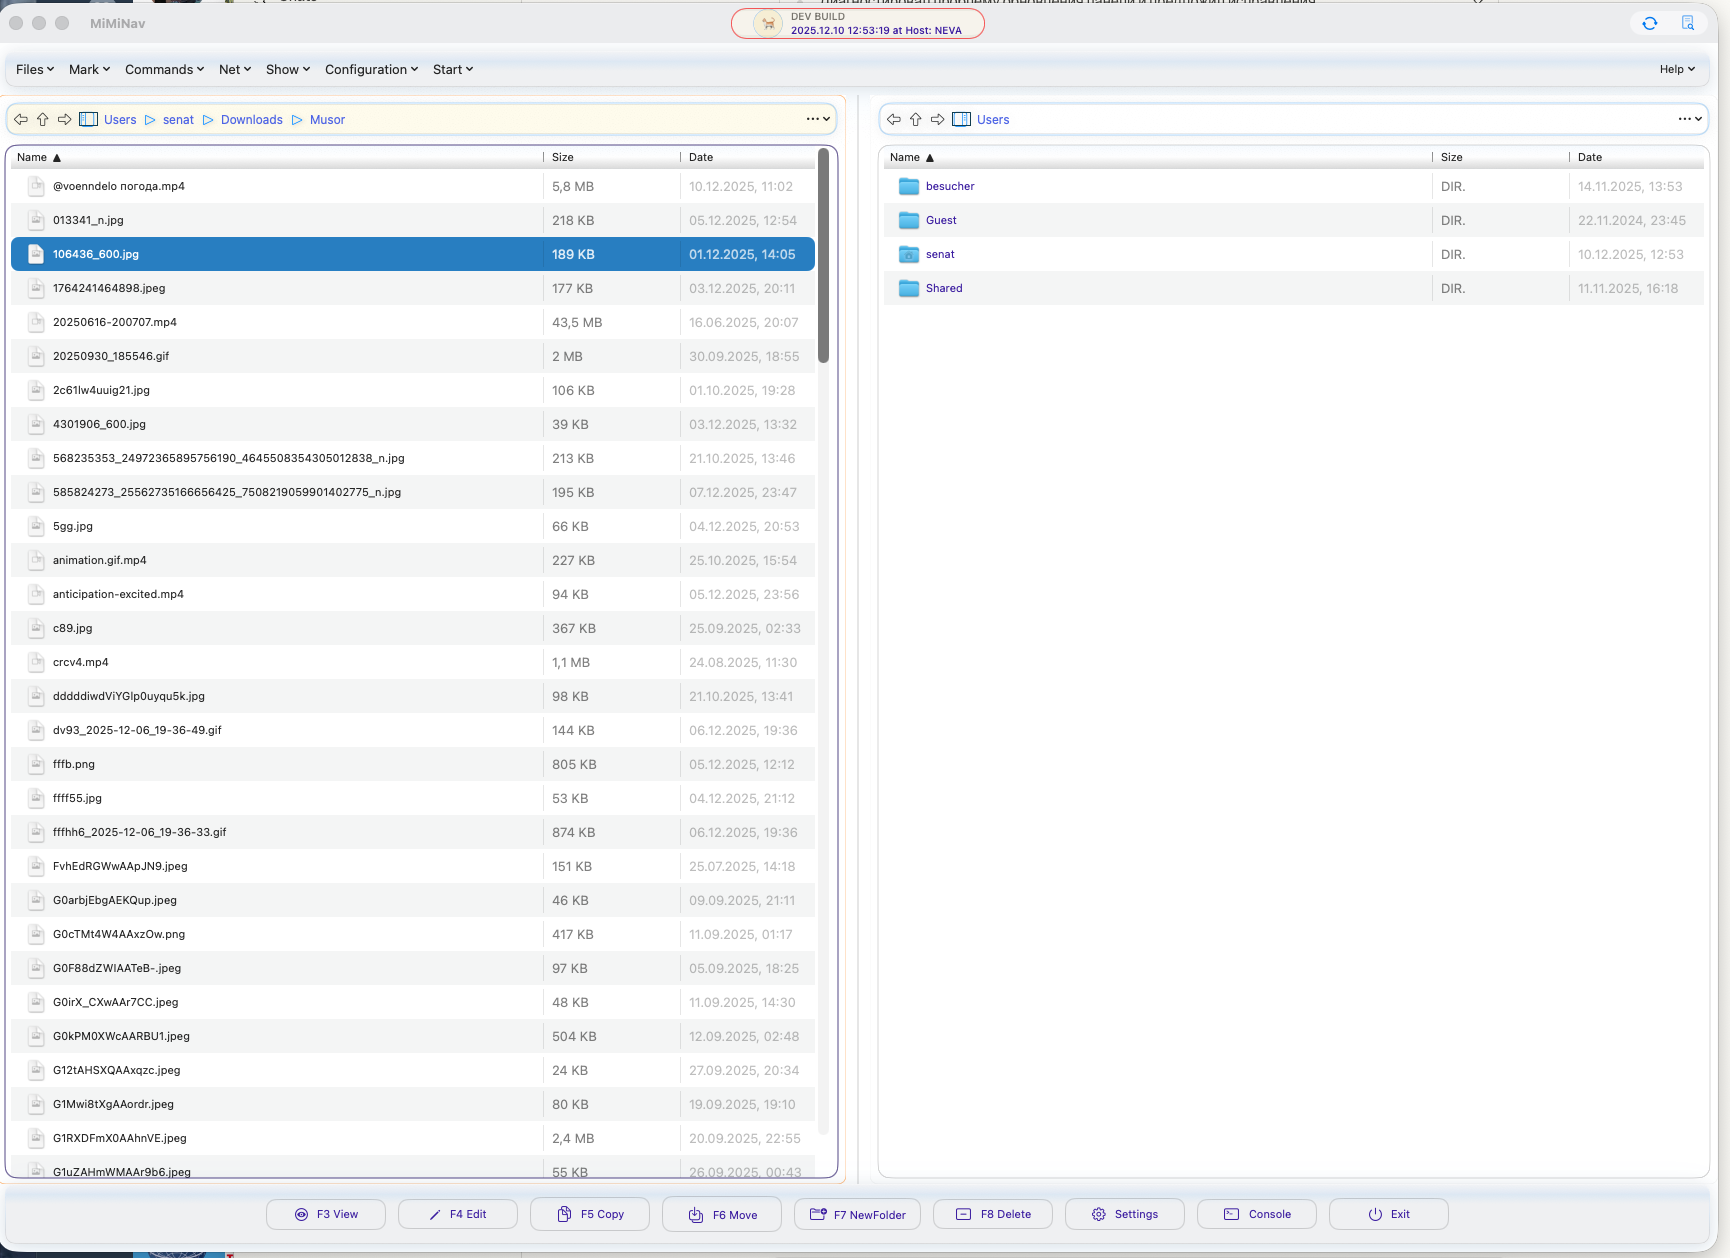
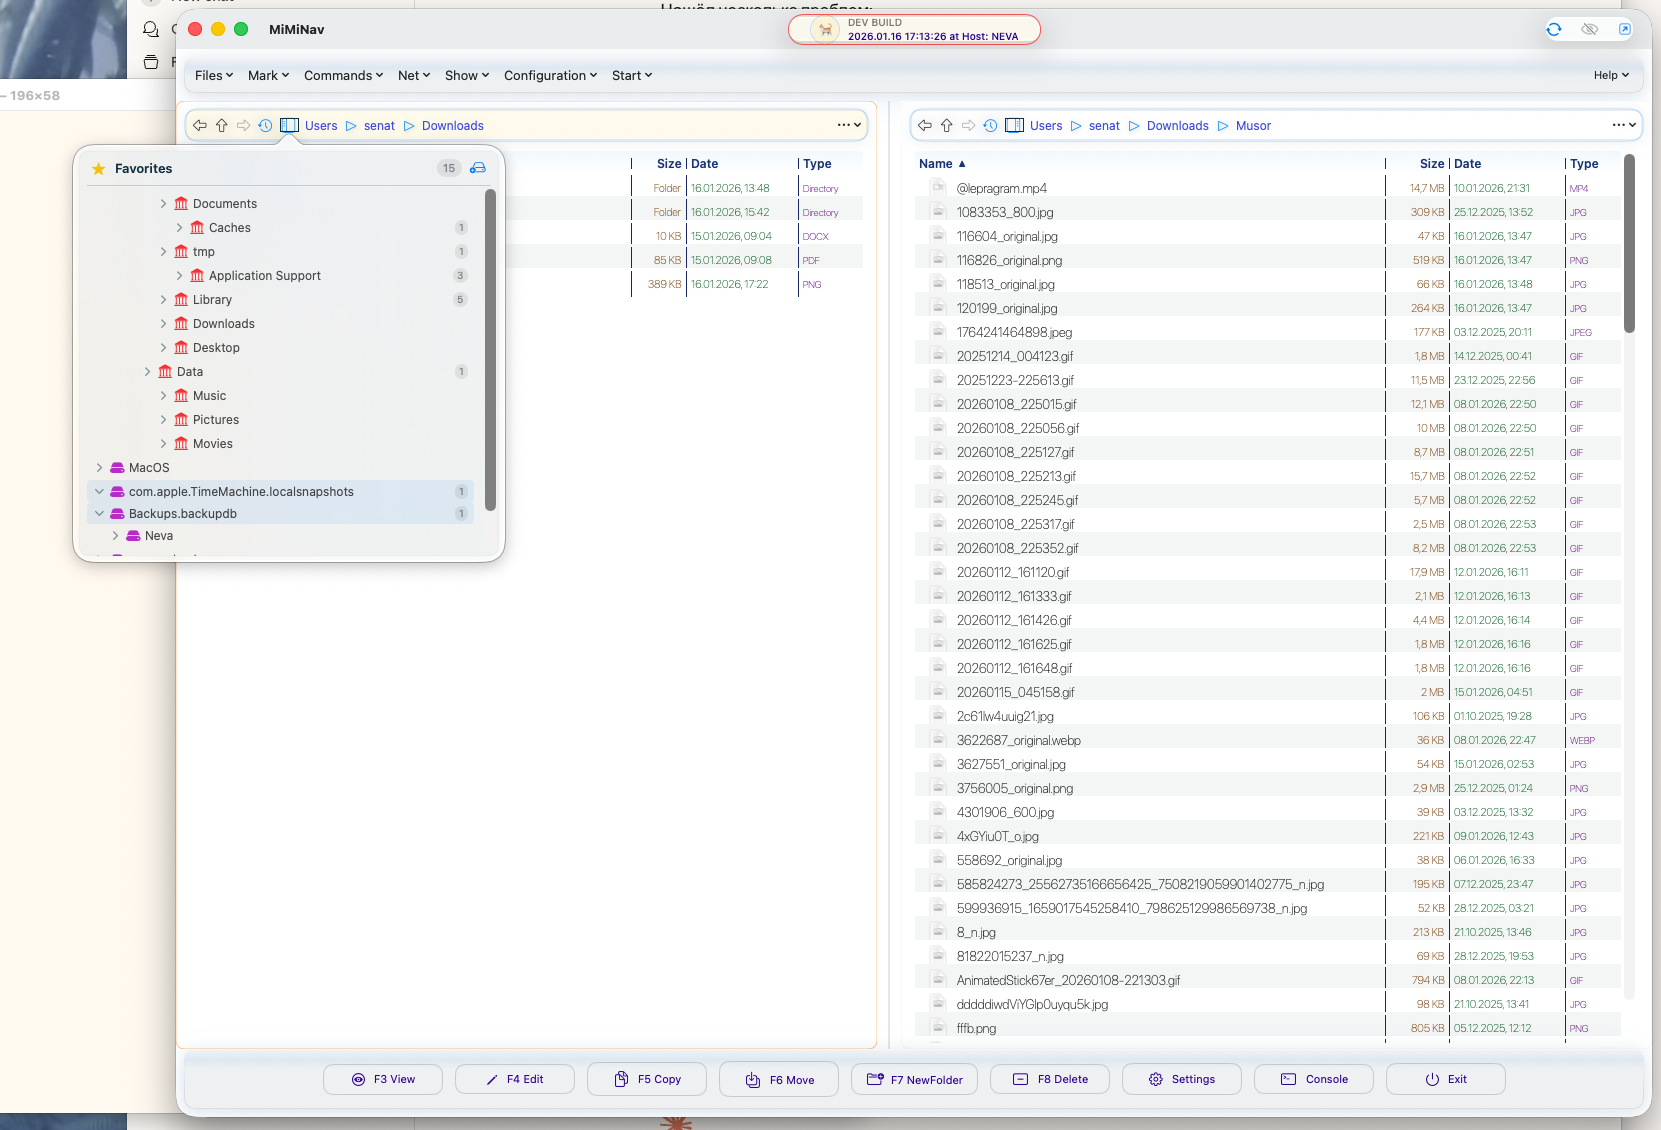
Adjusted column separator lines in file lists ad docus

diff --git a/GUI/Sources/FilePanel/FileTableView.swift b/GUI/Sources/FilePanel/FileTableView.swift
@@ -19,7 +19,6 @@ struct FileTableView: View {
     @State private var sortAscending: Bool = true
     @State private var cachedSortedFiles: [CustomFile] = []
     @State private var scrollProxy: ScrollViewProxy? = nil
-    @State private var isScrollingProgrammatically = false
     
     // MARK: - Resizable column widths (persisted per panel)
     @State private var sizeColumnWidth: CGFloat = ColumnDefaults.size
@@ -34,9 +33,9 @@ struct FileTableView: View {
     }
     
     private enum ColumnConstraints {
-        static let sizeMin: CGFloat = 40
+        static let sizeMin: CGFloat = 30
         static let sizeMax: CGFloat = 120
-        static let dateMin: CGFloat = 50
+        static let dateMin: CGFloat = 30
         static let dateMax: CGFloat = 180
         static let typeMin: CGFloat = 30
         static let typeMax: CGFloat = 100
@@ -75,7 +74,6 @@ struct FileTableView: View {
         .frame(maxWidth: .infinity, maxHeight: .infinity)
         .padding(.horizontal, 6)
         .clipShape(RoundedRectangle(cornerRadius: 12, style: .continuous))
-        .overlay(focusBorder)
         .overlay(lightBorder)
         .contentShape(Rectangle())
         .animation(nil, value: isFocused)
@@ -160,12 +158,8 @@ struct FileTableView: View {
     
     private func scrollToSelection(_ id: CustomFile.ID?, anchor: UnitPoint = .center) {
         guard let id = id, let proxy = scrollProxy else { return }
-        isScrollingProgrammatically = true
         withAnimation(nil) {
             proxy.scrollTo(id, anchor: anchor)
-        }
-        DispatchQueue.main.asyncAfter(deadline: .now() + 0.1) {
-            isScrollingProgrammatically = false
         }
     }
     
@@ -232,6 +226,13 @@ struct FileTableView: View {
             getDateSortableHeader()
                 .frame(width: dateColumnWidth, alignment: .leading)
                 .padding(.horizontal, 4)
+                .contentShape(Rectangle())
+                .onTapGesture {
+                    appState.focusedPanel = panelSide
+                    if sortKey == .date { sortAscending.toggle() }
+                    else { sortKey = .date; sortAscending = true }
+                    appState.updateSorting(key: .date, ascending: sortAscending)
+                }
             
             // Divider before Type
             resizableDivider(
@@ -244,9 +245,16 @@ struct FileTableView: View {
             getTypeColSortableHeader()
                 .frame(width: typeColumnWidth, alignment: .leading)
                 .padding(.horizontal, 4)
+                .contentShape(Rectangle())
+                .onTapGesture {
+                    appState.focusedPanel = panelSide
+                    if sortKey == .type { sortAscending.toggle() }
+                    else { sortKey = .type; sortAscending = true }
+                    appState.updateSorting(key: .type, ascending: sortAscending)
+                }
         }
         .padding(.vertical, 5)
-        .padding(.horizontal, 6)
+        .padding(.horizontal, 4)
         .background(
             LinearGradient(
                 colors: [
@@ -267,9 +275,11 @@ struct FileTableView: View {
 
     // MARK: - Resizable column divider
     private func resizableDivider(width: Binding<CGFloat>, min: CGFloat, max: CGFloat) -> some View {
-        Rectangle()
-            .fill(Color(nsColor: .separatorColor))
-            .frame(width: 1)
+        let scale = NSScreen.main?.backingScaleFactor ?? 2.0
+        let dividerWidth = Swift.max(1.0 / scale, 1.0)
+        return Rectangle()
+            .fill(Color(red: 0.1, green: 0.15, blue: 0.4))
+            .frame(width: dividerWidth)
             .padding(.vertical, 2)
             .overlay {
                 Color.clear
@@ -313,15 +323,6 @@ struct FileTableView: View {
         .allowsHitTesting(false)
     }
 
-    private var focusBorder: some View {
-        RoundedRectangle(cornerRadius: 12)
-            .stroke(
-                isFocused ? Color(nsColor: .systemIndigo) : Color.secondary.opacity(0.8),
-                lineWidth: isFocused ? 0.8 : 0.4
-            )
-            .allowsHitTesting(false)
-    }
-
     private var lightBorder: some View {
         RoundedRectangle(cornerRadius: 12)
             .stroke(Color.white.opacity(isFocused ? 0.10 : 0.05), lineWidth: 1)
@@ -342,6 +343,7 @@ struct FileTableView: View {
         }
         .frame(maxWidth: .infinity, alignment: .leading)
         .contentShape(Rectangle())
+        .allowsHitTesting(true)
         .onTapGesture {
             appState.focusedPanel = panelSide
             if sortKey == .name { sortAscending.toggle() }
@@ -362,6 +364,7 @@ struct FileTableView: View {
             }
         }
         .contentShape(Rectangle())
+        .allowsHitTesting(true)
         .onTapGesture {
             appState.focusedPanel = panelSide
             if sortKey == .size { sortAscending.toggle() }
@@ -381,13 +384,6 @@ struct FileTableView: View {
                     .foregroundStyle(HeaderStyle.color)
             }
         }
-        .contentShape(Rectangle())
-        .onTapGesture {
-            appState.focusedPanel = panelSide
-            if sortKey == .date { sortAscending.toggle() }
-            else { sortKey = .date; sortAscending = true }
-            appState.updateSorting(key: .date, ascending: sortAscending)
-        }
     }
     
     private func getTypeColSortableHeader() -> some View {
@@ -400,13 +396,6 @@ struct FileTableView: View {
                     .font(.system(size: 8))
                     .foregroundStyle(HeaderStyle.color)
             }
-        }
-        .contentShape(Rectangle())
-        .onTapGesture {
-            appState.focusedPanel = panelSide
-            if sortKey == .type { sortAscending.toggle() }
-            else { sortKey = .type; sortAscending = true }
-            appState.updateSorting(key: .type, ascending: sortAscending)
         }
     }
 

diff --git a/GUI/Sources/FilePanel/FileRow.swift b/GUI/Sources/FilePanel/FileRow.swift
@@ -81,21 +81,22 @@ struct FileRow: View {
         .id("\(panelSide)_\(file.id)")
     }
 
-    // MARK: - Secondary text colors
-    private var secondaryTextColor: Color {
-        (isSelected && isActivePanel) ? .white.opacity(0.85) : Color(nsColor: .secondaryLabelColor)
+    // MARK: - Column colors
+    private var sizeColumnColor: Color {
+        (isSelected && isActivePanel) ? .white.opacity(0.85) : Color(red: 0.5, green: 0.3, blue: 0.1)  // Brown
     }
     
-    private var tertiaryTextColor: Color {
-        (isSelected && isActivePanel) ? .white.opacity(0.7) : Color(nsColor: .tertiaryLabelColor)
+    private var dateColumnColor: Color {
+        (isSelected && isActivePanel) ? .white.opacity(0.85) : Color(red: 0.1, green: 0.4, blue: 0.2)  // Dark green
     }
     
-    private var typeTextColor: Color {
-        if isSelected && isActivePanel { return .white.opacity(0.75) }
-        if file.isDirectory || file.isSymbolicDirectory {
-            return Color(nsColor: .systemBlue).opacity(0.8)
-        }
-        return Color(nsColor: .tertiaryLabelColor)
+    private var typeColumnColor: Color {
+        (isSelected && isActivePanel) ? .white.opacity(0.85) : Color(red: 0.4, green: 0.1, blue: 0.5)  // Dark purple
+    }
+    
+    // MARK: - SF Pro Display Thin font
+    private func columnFont(size: CGFloat) -> Font {
+        .custom("SF Pro Display", size: size).weight(.thin)
     }
 
     // MARK: - Row content with columns
@@ -107,30 +108,30 @@ struct FileRow: View {
             
             columnDivider
             
-            // Size column
+            // Size column - brown
             Text(file.fileSizeFormatted)
-                .font(.system(size: 11))
-                .foregroundStyle(secondaryTextColor)
+                .font(columnFont(size: 11))
+                .foregroundStyle(sizeColumnColor)
                 .lineLimit(1)
                 .frame(width: sizeColumnWidth, alignment: .trailing)
                 .padding(.horizontal, 4)
             
             columnDivider
             
-            // Date column
+            // Date column - dark green
             Text(file.modifiedDateFormatted)
-                .font(.system(size: 11))
-                .foregroundStyle(tertiaryTextColor)
+                .font(columnFont(size: 11))
+                .foregroundStyle(dateColumnColor)
                 .lineLimit(1)
                 .frame(width: dateColumnWidth, alignment: .leading)
                 .padding(.horizontal, 4)
             
             columnDivider
             
-            // Type column
+            // Type column - dark purple
             Text(file.fileTypeDisplay)
-                .font(.system(size: 10, weight: .medium))
-                .foregroundStyle(typeTextColor)
+                .font(columnFont(size: 10))
+                .foregroundStyle(typeColumnColor)
                 .frame(width: typeColumnWidth, alignment: .leading)
                 .lineLimit(1)
                 .truncationMode(.tail)
@@ -141,9 +142,11 @@ struct FileRow: View {
     }
     
     private var columnDivider: some View {
-        Rectangle()
-            .fill(Color(nsColor: .separatorColor).opacity(0.5))
-            .frame(width: 1)
+        let scale = NSScreen.main?.backingScaleFactor ?? 2.0
+        let width = 1.0 / scale
+        return Rectangle()
+            .fill(Color(red: 0.1, green: 0.15, blue: 0.4))
+            .frame(width: max(width, 1.0))
             .padding(.vertical, 2)
     }
 

diff --git a/GUI/Sources/FilePanel/FileRowView.swift b/GUI/Sources/FilePanel/FileRowView.swift
@@ -31,14 +31,6 @@ struct FileRowView: View {
         if file.isDirectory { return FilePanelStyle.dirNameColor }
         return .primary
     }
-    
-    // MARK: - Font weight based on file type
-    private var nameWeight: Font.Weight {
-        if file.isDirectory || file.isSymbolicDirectory {
-            return .medium
-        }
-        return .regular
-    }
 
     // MARK: - Base content for a single file row (icon + name)
     private func baseContent() -> some View {
@@ -71,7 +63,7 @@ struct FileRowView: View {
             
             // File name - truncates in middle (macOS style)
             Text(file.nameStr)
-                .font(.system(size: 13, weight: nameWeight))
+                .font(.custom("SF Pro Display", size: 13).weight(.thin))
                 .foregroundStyle(nameColor)
                 .lineLimit(1)
                 .truncationMode(.middle)

diff --git a/README.md b/README.md
@@ -23,6 +23,7 @@
     src="GUI/Assets.xcassets/AppIcon.appiconset/120.png"
     alt="MiMiNavigator Logo"
     title="MiMiNavigator"
+     align="center"
     style="max-width: 60%; height: auto; border: 2px; border-radius: 12px;" />
 </div>
 
@@ -39,24 +40,24 @@
 
 ---
 
-⚠ **Development Status**  
-MiMiNavigator is currently under active development and **not yet ready for production use**.  
-APIs, layouts, and internal structures may change without prior notice.  
-Please use at your own discretion.  
+⚠ **Development Status**
+MiMiNavigator is currently under active development and **not yet ready for production use**.
+APIs, layouts, and internal structures may change without prior notice.
+Please use at your own discretion.
 
 ---
 
-### Disclaimer  
-I am not an architecture expert and do not claim to be one.  
-If you notice mistakes or disagree with my methods, reasoning, or learning process,  
-I welcome your feedback via email or social media.  
-Much of what follows represents my first attempts in this area,  
-so I ask for your patience and indulgence.  
+### Disclaimer
+I am not an architecture expert and do not claim to be one.
+If you notice mistakes or disagree with my methods, reasoning, or learning process,
+I welcome your feedback via email or social media.
+Much of what follows represents my first attempts in this area,
+so I ask for your patience and indulgence.
 
 ---
 
-### Transparency  
-I openly acknowledge that I have used AI assistants  
+### Transparency
+I openly acknowledge that I have used AI assistants
 to help clarify the philosophies and implementations of different architectures.
 
 ## 📖 Table of Contents
@@ -274,6 +275,15 @@ See our [Roadmap](#roadmap) section for detailed planning.
   <p><em>Rich context menus and file operations interface</em></p>
 </div>
 
+  <img
+    src="Gui/Docs/Preview3.png"
+    alt="File Operations and Context Menus"
+    title="Context Menus"
+    style="max-width: 100%; height: auto; border: 1px solid #133347ff; border-radius: 12px;" />
+  <p><em>Rich context menus and file operations interface</em></p>
+</div>
+
+
 ## Requirements
 
 ### System Requirements
@@ -362,7 +372,7 @@ Build logs are automatically saved to `build-logs/` directory with timestamps.
 ### First Launch
 
 1. **Grant Permissions**: On first launch, macOS may ask for file access permissions. Grant access to directories you want to navigate.
-2. **Explore Interface**: 
+2. **Explore Interface**:
    - Left and right panels show your home directory by default
    - Use the breadcrumb navigation at the top to navigate
    - Click on folders to open them in the active panel
@@ -493,8 +503,8 @@ final class AppState {
 ```swift
 actor DualDirectoryScanner {
     func refreshFiles(currSide: PanelSide) async {
-        let showHidden = await MainActor.run { 
-            UserPreferences.shared.snapshot.showHiddenFiles 
+        let showHidden = await MainActor.run {
+            UserPreferences.shared.snapshot.showHiddenFiles
         }
         let scanned = try FileScanner.scan(url: url, showHiddenFiles: showHidden)
         // ...
@@ -509,7 +519,7 @@ actor BookmarkStore {
         // Shows NSOpenPanel, saves security-scoped bookmark
         // Persists across app launches
     }
-    
+
     func restoreAll() async -> [URL] {
         // Restores saved bookmarks on app launch
     }
@@ -675,8 +685,8 @@ This project is licensed under the **MIT License** - see the [LICENSE](LICENSE) 
 
 ## Author
 
-**Iakov Senatov**  
-Senior Java/Swift Developer  
+**Iakov Senatov**
+Senior Java/Swift Developer
 
 - 💼 LinkedIn: [![LinkedIn](https://img.shields.io/badge/LinkedIn-Profile-blue?style=flat&logo=linkedin)](https://www.linkedin.com/in/iakov-senatov-07060765)
 - 🐙 GitHub: [@senatov](https://github.com/senatov)
